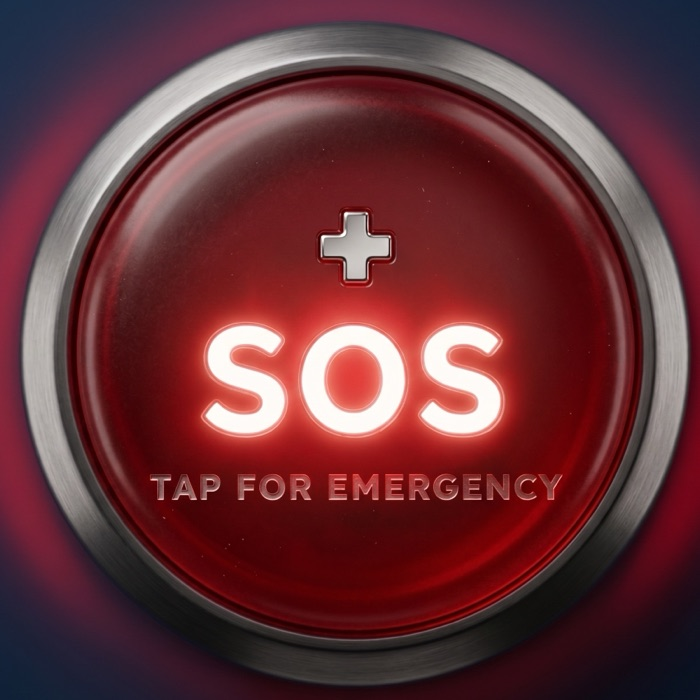
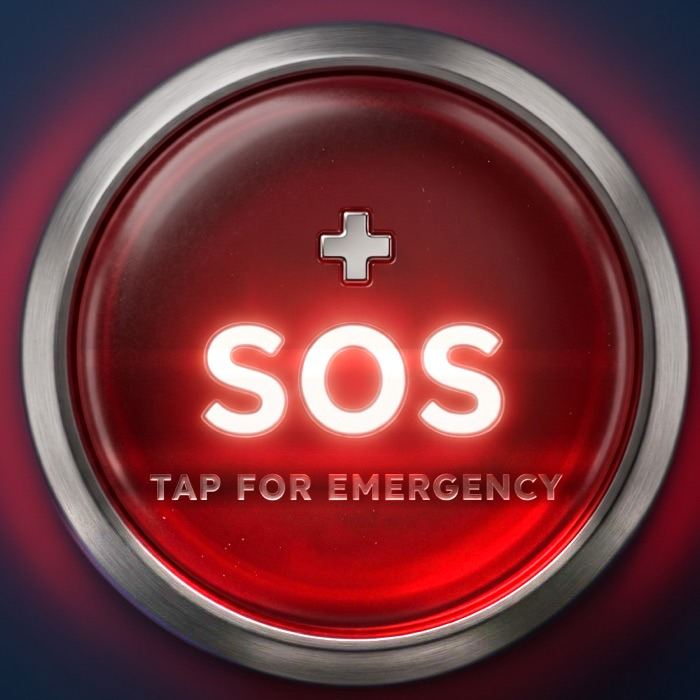
index: even out the SOS art's lower third (dome + chrome ring) to match the top shading (founder 2026-10-27)

diff --git a/styles.css b/styles.css
@@ -500,7 +500,7 @@ p { margin: 0; text-wrap: pretty; }
   transition: transform .15s var(--ease);
 }
 .sos-btn:active { transform: scale(.97); }
-/* Same art as the app's Safety-tab SOS button (SkiBuddyGemini assets/images/sos-button.jpg).
+/* App Safety-tab SOS art (SkiBuddyGemini assets/images/sos-button.jpg) with the lower third evened out to the top shading (founder 2026-10-27).
    The app clips a 266pt image to a 250pt circle (offset -10); same ratio here: 106.4% at -3.2%. */
 .sos-btn img { position: absolute; width: 106.4%; height: 106.4%; left: -3.2%; top: -3.2%; max-width: none; display: block; }
 .sos-btn small {
